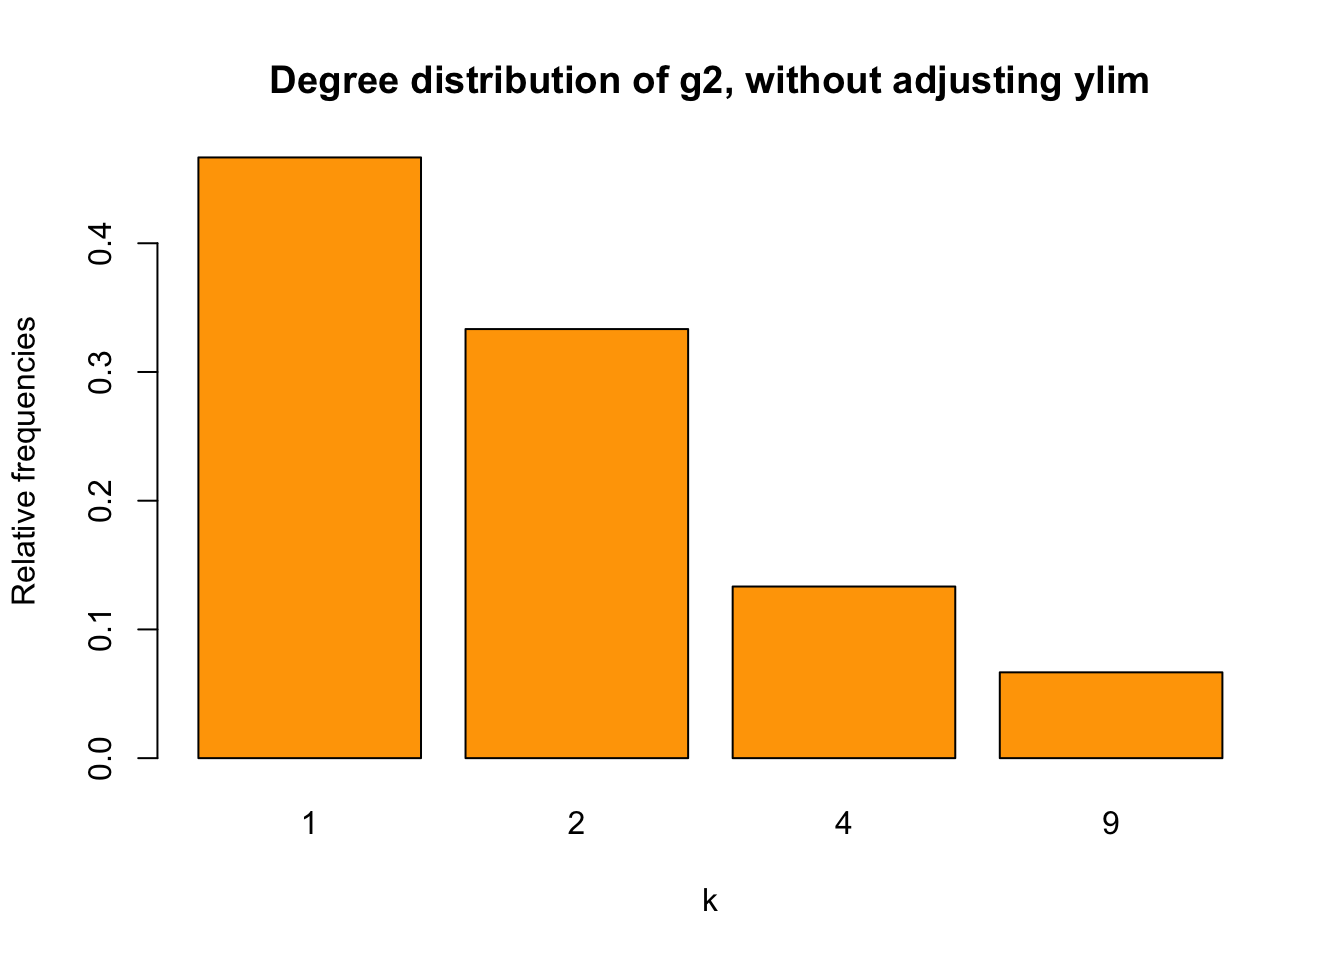
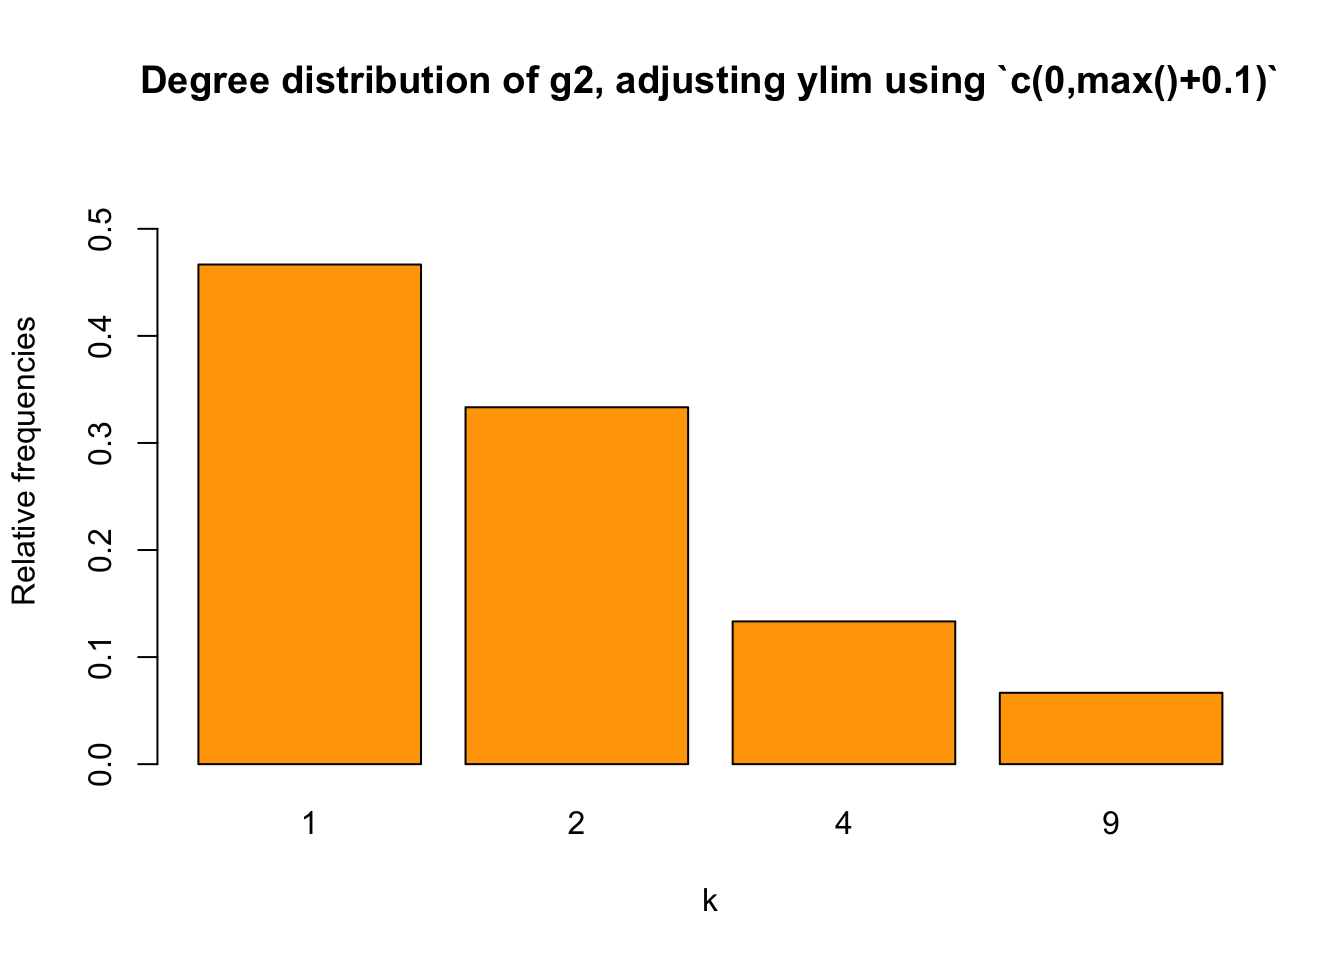
Rebuilding site Tue Nov  3 15:54:00 EST 2020

diff --git a/content/en/blog/2020-08-19-igraph-distribution.html b/content/en/blog/2020-08-19-igraph-distribution.html
@@ -34,7 +34,12 @@ output:
 <pre class="r"><code>library(igraph)</code></pre>
 <pre class="r"><code>g1 &lt;- graph( edges=c(1,2, 1,3, 2,3, 3,4), n=4, directed=FALSE)
 plot(g1)</code></pre>
-<p><img src="/en/blog/2020-08-19-igraph-distribution_files/figure-html/unnamed-chunk-2-1.png" width="672" /></p>
+<div class="figure" style="text-align: center"><span id="fig:simpleNetwork"></span>
+<img src="/en/blog/2020-08-19-igraph-distribution_files/figure-html/simpleNetwork-1.png" alt="A simple network, g1" width="672" />
+<p class="caption">
+Figure 1: A simple network, g1
+</p>
+</div>
 <p>Okay, now let’s have a look at its nodes’ degrees and its degree distribution.</p>
 <pre class="r"><code>deg_1 &lt;- degree(g1)
 deg_1</code></pre>
@@ -47,12 +52,18 @@ deg_1</code></pre>
 <p>Conclusion: <code>degree()</code> will tell us the degree of all the nodes. <code>degree_distribution()</code> will tell us the <strong>relative frequency</strong> of all the degrees.</p>
 <p>Then, we may wonder, what if we don’t have all the degrees from the minimum to maximum. For example, if we only have degrees of <span class="math inline">\(1,2,4,9\)</span>, will the <code>degree_distribution()</code> function show us the relative frequency of degree <span class="math inline">\(5\)</span> (which should be zero)?</p>
 <p>Let’s try.</p>
-<pre class="r"><code>g2 &lt;- graph( edges=c(1,2, 1,3, 2,3, 3,4, 4,5, 4,6, 4,7, 
+<pre class="r"><code>set.seed(1234)
+g2 &lt;- graph( edges=c(1,2, 1,3, 2,3, 3,4, 4,5, 4,6, 4,7, 
                      4,8, 4,9, 4,10, 3,11, 2,12,
                      4,13, 4,14, 2,15, 6,12, 7,10), 
              n=15, directed=FALSE)
 plot(g2)</code></pre>
-<p><img src="/en/blog/2020-08-19-igraph-distribution_files/figure-html/unnamed-chunk-5-1.png" width="672" /></p>
+<div class="figure" style="text-align: center"><span id="fig:anotherSimpleNetwork"></span>
+<img src="/en/blog/2020-08-19-igraph-distribution_files/figure-html/anotherSimpleNetwork-1.png" alt="Another simple network, g2" width="672" />
+<p class="caption">
+Figure 2: Another simple network, g2
+</p>
+</div>
 <pre class="r"><code>deg_2 &lt;- degree(g2)
 deg_2</code></pre>
 <pre><code>##  [1] 2 4 4 9 1 2 2 1 1 2 1 2 1 1 1</code></pre>
@@ -70,7 +81,7 @@ deg_2</code></pre>
      ylab = &quot;Frequency&quot;,
      main = &quot;Histogram of g1&#39;s nodes degrees, without adjusting breaks and ylim&quot;,
      col = &quot;skyblue&quot;)</code></pre>
-<p><img src="/en/blog/2020-08-19-igraph-distribution_files/figure-html/unnamed-chunk-8-1.png" width="672" /></p>
+<p><img src="/en/blog/2020-08-19-igraph-distribution_files/figure-html/unnamed-chunk-6-1.png" width="672" /></p>
 <p>However,as we can ses above, it doesn’t make much sense because all of the degrees are discrete numbers. Let’s try bar plot instead.</p>
 <pre class="r"><code>t1 &lt;- table (deg_1)
 sum(t1)</code></pre>
@@ -79,7 +90,7 @@ sum(t1)</code></pre>
 barplot(relafreq_1, xlab = &quot;k&quot;, ylab = &quot;Relative frequencies&quot;, 
         main = &quot;Degree distribution of g1, without adjusting ylim&quot;,
         col = &quot;orange&quot;)</code></pre>
-<p><img src="/en/blog/2020-08-19-igraph-distribution_files/figure-html/unnamed-chunk-9-1.png" width="672" /></p>
+<p><img src="/en/blog/2020-08-19-igraph-distribution_files/figure-html/unnamed-chunk-7-1.png" width="672" /></p>
 <p>It works.</p>
 <p>Let’s plot <code>g2</code> as well.</p>
 <pre class="r"><code>t2 &lt;- table (deg_2)
@@ -89,10 +100,10 @@ sum(t2)</code></pre>
 barplot(relafreq_2, xlab = &quot;k&quot;, ylab = &quot;Relative frequencies&quot;, 
         main =&quot;Degree distribution of g2, without adjusting ylim&quot;,
         col = &quot;orange&quot;)</code></pre>
-<div class="figure"><span id="fig:unnamed-chunk-10"></span>
-<img src="/en/blog/2020-08-19-igraph-distribution_files/figure-html/unnamed-chunk-10-1.png" alt="bar chart for g2 without adusting ylim" width="672" />
+<div class="figure" style="text-align: center"><span id="fig:g2BarChart"></span>
+<img src="/en/blog/2020-08-19-igraph-distribution_files/figure-html/g2BarChart-1.png" alt="bar chart for g2 without adusting ylim" width="672" />
 <p class="caption">
-Figure 1: bar chart for g2 without adusting ylim
+Figure 3: bar chart for g2 without adusting ylim
 </p>
 </div>
 <p>We find that the Y-axis scale is too short for our values. I found a solution <a href="https://stackoverflow.com/a/50193822/13716814">here</a>. Before looking at the solution, let’s first try solving it by ourselves.</p>
@@ -103,14 +114,14 @@ Figure 1: bar chart for g2 without adusting ylim
         main=&quot;Degree distribution of g2, adjusting ylim using `c(0,max())`&quot;,
         col = &quot;orange&quot;,
         ylim = c(0, max(relafreq_2)))</code></pre>
-<p><img src="/en/blog/2020-08-19-igraph-distribution_files/figure-html/unnamed-chunk-11-1.png" width="672" /></p>
+<p><img src="/en/blog/2020-08-19-igraph-distribution_files/figure-html/unnamed-chunk-8-1.png" width="672" /></p>
 <p>The Y-axis scale is still too short.</p>
 <p>We may use <code>max(t2/sum(t2))+0.1</code>. It of course will be fine here, setting the Y-axis scale to be <span class="math inline">\([0,0.5]\)</span>:</p>
 <pre class="r"><code>barplot(relafreq_2, xlab=&quot;k&quot;, ylab = &quot;Relative frequencies&quot;, 
         main=&quot;Degree distribution of g2, adjusting ylim using `c(0,max()+0.1)`&quot;,
         col = &quot;orange&quot;,
         ylim = c(0, max(relafreq_2+0.1)))</code></pre>
-<p><img src="/en/blog/2020-08-19-igraph-distribution_files/figure-html/unnamed-chunk-12-1.png" width="672" /></p>
+<p><img src="/en/blog/2020-08-19-igraph-distribution_files/figure-html/unnamed-chunk-9-1.png" width="672" /></p>
 <p>However, this method may not be applicable to other situations. Is there a better way? Yes, let’s try the <code>pretty()</code> function mentioned above. Read <a href="https://stat.ethz.ch/R-manual/R-devel/library/base/html/pretty.html">here</a> and <a href="https://statisticsglobe.com/pretty-r-function">here</a> to understand this function.</p>
 <p>Basically, <code>pretty()</code> function will return a sequence of values that are equally spaced and cover the minimum and maximum values of our input. For example:</p>
 <pre class="r"><code>a &lt;- c(0,1,2,3,0.5,1.2,0.001)
@@ -135,7 +146,7 @@ pretty(b)
         main=&quot;Degree distribution of g2, adjusting ylim using `range(pretty())`&quot;,
         col = &quot;orange&quot;,
         ylim = range(pretty(c(0,relafreq_2))))</code></pre>
-<p><img src="/en/blog/2020-08-19-igraph-distribution_files/figure-html/unnamed-chunk-16-1.png" width="672" /></p>
+<p><img src="/en/blog/2020-08-19-igraph-distribution_files/figure-html/unnamed-chunk-13-1.png" width="672" /></p>
 <p>Some of you may wonder, why couldn’t we just use <code>range(pretty(relafreq_2))</code>. Well, <strong>we could</strong>. The thing is, if all degrees appeare at least once, then using <code>range(pretty(relafreq_2))</code> rather than <code>range(pretty(c(0,relafreq_2)))</code> means that the start of <code>ylim</code> won’t be <span class="math inline">\(0\)</span>, I guess. So it’s safer to use <code>range(pretty(c(0,relafreq_2)))</code>.</p>
 </div>
 <div id="going-back-to-histogram" class="section level1">
@@ -147,7 +158,12 @@ pretty(b)
 random_graph &lt;- sample_gnp(1000, 1/1000, directed = FALSE, loops = FALSE)
 plot(random_graph,
      main = &quot;Plotting random_graph&quot;) # It&#39;s not very pretty...</code></pre>
-<p><img src="/en/blog/2020-08-19-igraph-distribution_files/figure-html/unnamed-chunk-17-1.png" width="672" /></p>
+<div class="figure" style="text-align: center"><span id="fig:randomGraph"></span>
+<img src="/en/blog/2020-08-19-igraph-distribution_files/figure-html/randomGraph-1.png" alt="A random graph" width="672" />
+<p class="caption">
+Figure 4: A random graph
+</p>
+</div>
 <p>Let’s draw its nodes degree</p>
 <pre class="r"><code>deg_random &lt;- degree(random_graph)
 hist(deg_random, 
@@ -157,12 +173,12 @@ hist(deg_random,
 <div class="figure"><span id="fig:rnd-g-hist"></span>
 <img src="/en/blog/2020-08-19-igraph-distribution_files/figure-html/rnd-g-hist-1.png" alt="Histogram of random_graph's nodes degrees, without adjustments" width="672" />
 <p class="caption">
-Figure 2: Histogram of random_graph’s nodes degrees, without adjustments
+Figure 5: Histogram of random_graph’s nodes degrees, without adjustments
 </p>
 </div>
-<blockquote>
-<p>Note: The above figure has two problems: X-axis and Y-axis. We’ll solve them later.</p>
-</blockquote>
+<p>{{% reminder %}}
+The above figure has two problems: X-axis and Y-axis. We’ll solve them later.
+{{% end %}}</p>
 <p>Then, let’s compare the above histogram with the corresponding bar chart:</p>
 <pre class="r"><code>t_random &lt;- table(deg_random)
 relafreq_random &lt;- t_random/sum(t_random)
@@ -171,7 +187,7 @@ barplot(relafreq_random, xlab = &quot;k&quot;,
         main = &quot;Degree distribution of random_graph, with ylim adjusted&quot;,
         ylim = range(pretty(c(0,relafreq_random))),
         col = &quot;orange&quot;)</code></pre>
-<p><img src="/en/blog/2020-08-19-igraph-distribution_files/figure-html/unnamed-chunk-18-1.png" width="672" /></p>
+<p><img src="/en/blog/2020-08-19-igraph-distribution_files/figure-html/unnamed-chunk-14-1.png" width="672" /></p>
 <p>They are not that different, right? Except for the fact that the histogram captures the absolute frequencies whereas the bar chart displays relative ones.</p>
 <div id="deciding-on-x-axis-scale" class="section level2">
 <h2>Deciding on X-axis scale</h2>
@@ -184,10 +200,10 @@ barplot(relafreq_random, xlab = &quot;k&quot;,
      col = &quot;skyblue&quot;,
      ylim = range(pretty(c(0,table(deg_random))))
      )</code></pre>
-<div class="figure"><span id="fig:unnamed-chunk-20"></span>
-<img src="/en/blog/2020-08-19-igraph-distribution_files/figure-html/unnamed-chunk-20-1.png" alt="`vcount()-1` doesn't fit quite well here" width="672" />
+<div class="figure"><span id="fig:unnamed-chunk-16"></span>
+<img src="/en/blog/2020-08-19-igraph-distribution_files/figure-html/unnamed-chunk-16-1.png" alt="`vcount()-1` doesn't fit quite well here" width="672" />
 <p class="caption">
-Figure 3: <code>vcount()-1</code> doesn’t fit quite well here
+Figure 6: <code>vcount()-1</code> doesn’t fit quite well here
 </p>
 </div>
 <p>As we can see above, the figure doesn’t show the nodes degrees in detail because the X-axis is too large. A better alternative might be <code>max(degree(G))+1</code> where <code>G</code> is the graph you are interested in:</p>
@@ -196,7 +212,7 @@ Figure 3: <code>vcount()-1</code> doesn’t fit quite well here
      xlab = &quot;k&quot;, 
      col = &quot;skyblue&quot;
      )</code></pre>
-<p><img src="/en/blog/2020-08-19-igraph-distribution_files/figure-html/unnamed-chunk-21-1.png" width="672" /></p>
+<p><img src="/en/blog/2020-08-19-igraph-distribution_files/figure-html/unnamed-chunk-17-1.png" width="672" /></p>
 </div>
 <div id="adjusting-a-histograms-breaks" class="section level2">
 <h2>Adjusting a histogram’s breaks</h2>
@@ -205,7 +221,7 @@ Figure 3: <code>vcount()-1</code> doesn’t fit quite well here
 <pre><code>## deg_random
 ##   0   1   2   3   4   5 
 ## 357 365 207  55  10   6</code></pre>
-<p>This problem also occurs in Figure <a href="#fig:rnd-g-hist">2</a></p>
+<p>This problem also occurs in Figure <a href="#fig:rnd-g-hist">5</a></p>
 <p>How to solve this problem?</p>
 <p>We can simply change the breaks. Set it as <code>breaks = seq(0,(max(deg_random)+1), by=0.5)</code> so that there [0,1] will be divided into two parts. I learned this trick from <a href="https://stackoverflow.com/a/14585847/13716814">here</a>.</p>
 <pre class="r"><code>hist(deg_random, breaks = seq(0,(max(deg_random)+1), by=0.5), 
@@ -213,14 +229,14 @@ Figure 3: <code>vcount()-1</code> doesn’t fit quite well here
      xlab = &quot;k&quot;, 
      col = &quot;skyblue&quot;
      )</code></pre>
-<p><img src="/en/blog/2020-08-19-igraph-distribution_files/figure-html/unnamed-chunk-23-1.png" width="672" /></p>
+<p><img src="/en/blog/2020-08-19-igraph-distribution_files/figure-html/unnamed-chunk-19-1.png" width="672" /></p>
 <p>However, it’s still a little packed in <span class="math inline">\([0,1]\)</span>. Let’s try setting the start of the <code>seq()</code> to be <span class="math inline">\(-1\)</span>:</p>
 <pre class="r"><code>hist(deg_random, breaks = seq(-1,(max(deg_random)+1), by=0.5), 
      main = &quot;Hist of nodes degree for rnd_g, adjusting breaks using `seq()`&quot;,
      xlab = &quot;k&quot;, 
      col = &quot;skyblue&quot;
      )</code></pre>
-<p><img src="/en/blog/2020-08-19-igraph-distribution_files/figure-html/unnamed-chunk-24-1.png" width="672" /></p>
+<p><img src="/en/blog/2020-08-19-igraph-distribution_files/figure-html/unnamed-chunk-20-1.png" width="672" /></p>
 <p>Now, it’s much clearer.</p>
 </div>
 <div id="adjusting-a-histograms-y-axis" class="section level2">
@@ -233,7 +249,7 @@ Figure 3: <code>vcount()-1</code> doesn’t fit quite well here
      col = &quot;skyblue&quot;,
      ylim = range(pretty(c(0,table(deg_random))))
      )</code></pre>
-<p><img src="/en/blog/2020-08-19-igraph-distribution_files/figure-html/unnamed-chunk-25-1.png" width="672" /></p>
+<p><img src="/en/blog/2020-08-19-igraph-distribution_files/figure-html/unnamed-chunk-21-1.png" width="672" /></p>
 </div>
 </div>
 <div id="conclusion" class="section level1">

diff --git a/themes/hugo-xmin/static/css/style.css b/themes/hugo-xmin/static/css/style.css
@@ -262,8 +262,8 @@ blockquote {
   https://github.com/rstudio/bookdown/blob/master/inst/examples/css/style.css */
 
 .reminder {
-  min-height: 2.2em;
-  padding: 0.5em 0.5em 0.1em 4em;
+  min-height: 3.2em;
+  padding: 1.1em 0.2em 0em 4em;
   background: #f5f5f5 2px center/3em no-repeat;
   font-family: 'Lato', 'Georgia', 'Source Han Serif SC', 'Noto Serif SC',;
   font-size: 19px;

diff --git a/content/en/blog/2020-11-03-ignore-ds-store.md b/content/en/blog/2020-11-03-ignore-ds-store.md
@@ -22,7 +22,7 @@ git push origin master
 ```
 # Second, create a .gitignore file and ignore .DS_Store
 
-The following solution came from [here](https://docs.github.com/en/free-pro-team@latest/github/using-git/ignoring-files#configuring-ignored-files-for-a-single-repository) and [here](https://stackoverflow.com/a/54715555)
+The following solution came from [here](https://docs.github.com/en/free-pro-team@latest/github/using-git/ignoring-files#configuring-ignored-files-for-a-single-repository) and [here](https://stackoverflow.com/a/54715555).
 
 If you don't have it in your repository yet, create one:
 
@@ -44,4 +44,4 @@ echo .DS_Store >> ~/.gitignore_global
 git config --global core.excludesfile ~/.gitignore_global
 ```
 
-[^1]: All the codes in this post should be run at the root directory of your local repo. 
+[^1]: All the codes in this post are supposed to be run at the root directory of your local repo. 
